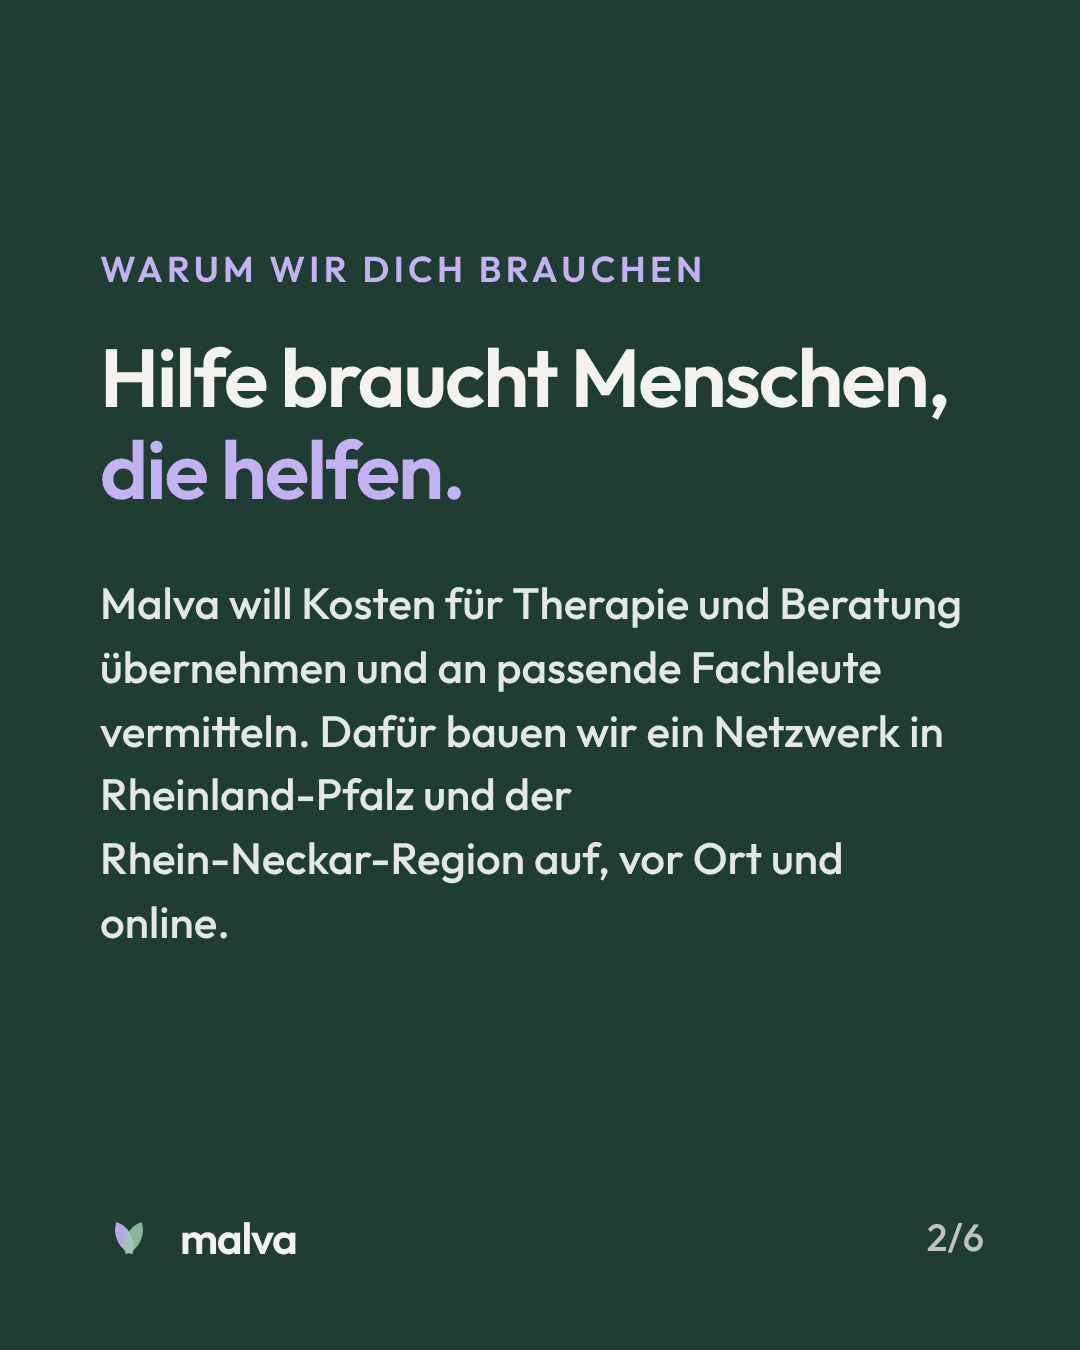
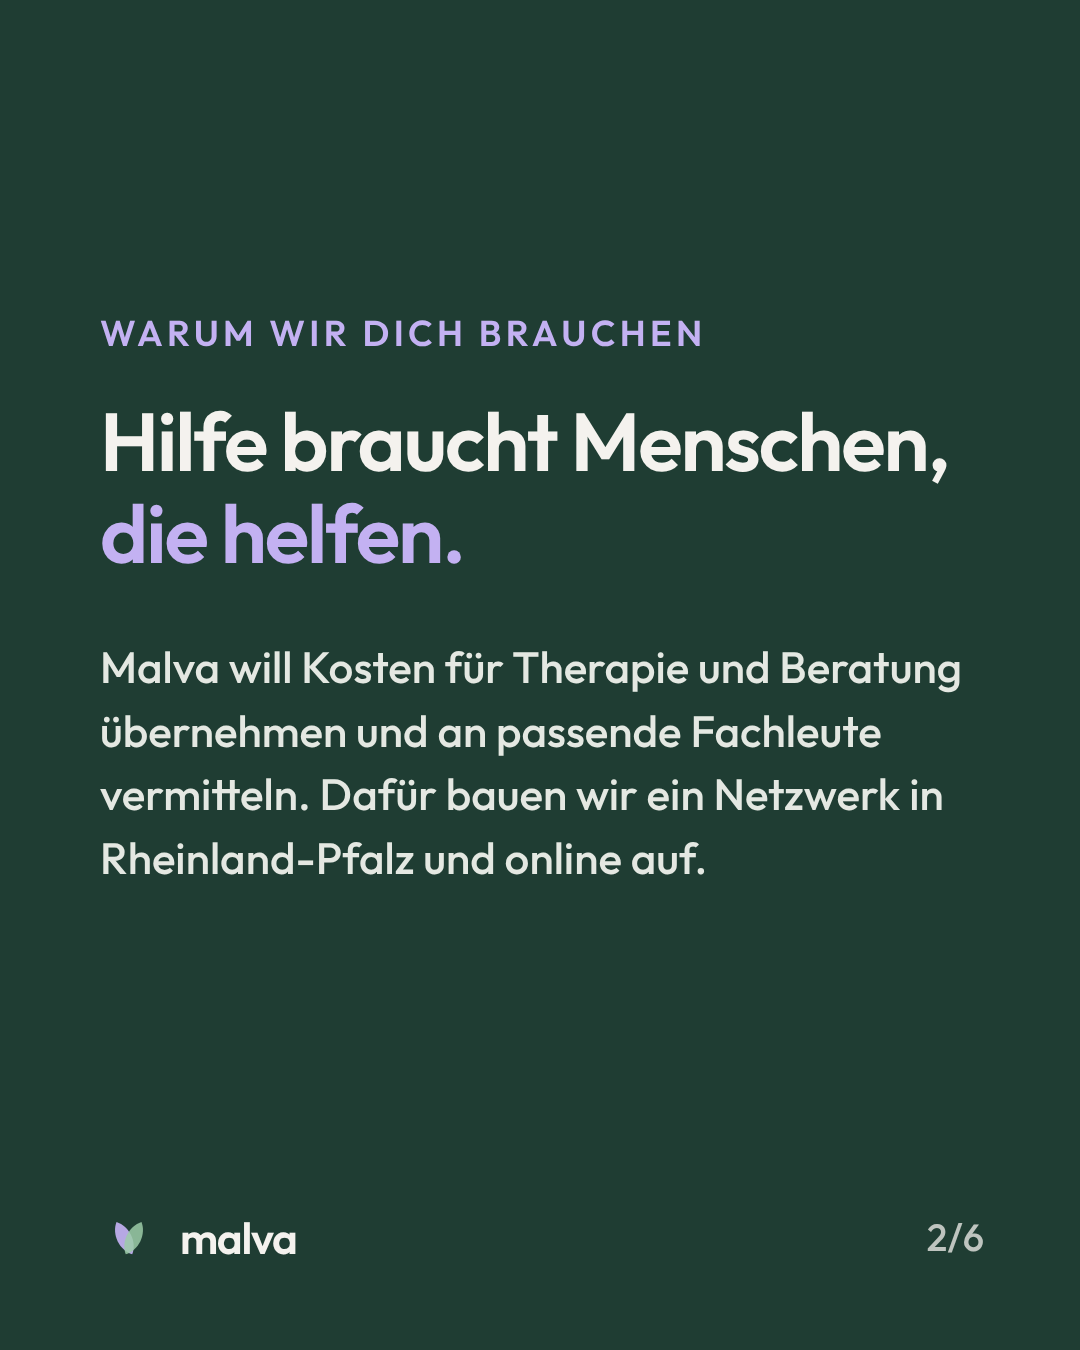
Partner-Post: nur Rheinland-Pfalz und online
Claude-Session: https://claude.ai/code/session_015uEer6M6e5oi78ZvJtGjnt

Changed region(s): [[0.0917, 0.1867, 0.8861, 0.6533], [0.0917, 0.6533, 0.2139, 0.7156]]

diff --git a/malva-website/instagram/partner-gesucht/slides.html b/malva-website/instagram/partner-gesucht/slides.html
@@ -42,14 +42,14 @@ h2{font-weight:600;font-size:82px;line-height:1.12;letter-spacing:-.025em}
   <div class="mark-top" data-mark="d"></div>
   <p class="kicker">Partner:innen gesucht</p>
   <h1 style="font-size:132px">Wir suchen<br><span class="hl">dich!</span></h1>
-  <p class="body">in Rheinland-Pfalz,<br><span style="white-space:nowrap">der Rhein-Neckar-Region</span> und online</p>
+  <p class="body">in Rheinland-Pfalz und online</p>
   <div class="foot"><div class="brand" data-mark="d"><span>malva</span></div><span class="more">Mehr erfahren →</span></div>
 </section>
 
 <section class="slide dark" id="s2">
   <p class="kicker">Warum wir dich brauchen</p>
   <h2>Hilfe braucht Menschen, <span class="hl">die helfen.</span></h2>
-  <p class="body">Malva will Kosten für Therapie und Beratung übernehmen und an passende Fachleute vermitteln. Dafür bauen wir ein Netzwerk in Rheinland-Pfalz und der <span style="white-space:nowrap">Rhein-Neckar-Region</span> auf, vor Ort und online.</p>
+  <p class="body">Malva will Kosten für Therapie und Beratung übernehmen und an passende Fachleute vermitteln. Dafür bauen wir ein Netzwerk in Rheinland-Pfalz und online auf.</p>
   <div class="foot"><div class="brand" data-mark="d"><span>malva</span></div><span class="num">2/6</span></div>
 </section>
 
@@ -94,7 +94,7 @@ h2{font-weight:600;font-size:82px;line-height:1.12;letter-spacing:-.025em}
   <div class="mark-top" style="width:260px" data-mark="d"></div>
   <p class="kicker">Partner:innen gesucht</p>
   <h1 style="font-size:150px">Wir suchen<br><span class="hl">dich!</span></h1>
-  <p class="body" style="margin-top:80px">in Rheinland-Pfalz,<br>der Rhein-Neckar-Region und online</p>
+  <p class="body" style="margin-top:80px">in Rheinland-Pfalz und online</p>
   <p class="sage" style="margin-top:90px">Schreib uns eine DM · @malva.ev</p>
   <div class="foot" style="bottom:200px;justify-content:center"><div class="brand" data-mark="d"><span>malva</span></div></div>
 </section>
